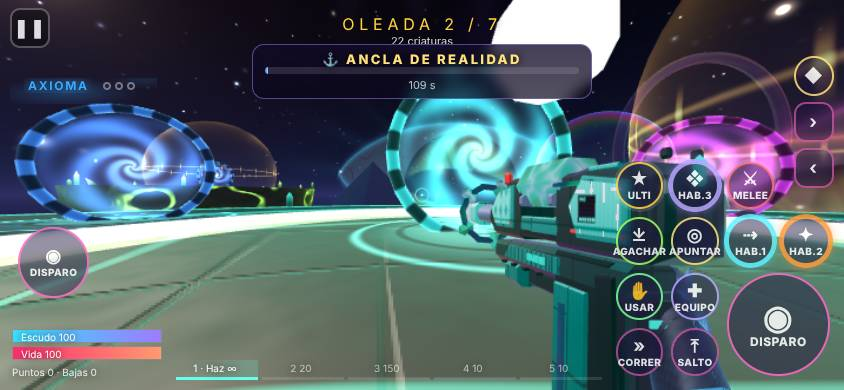
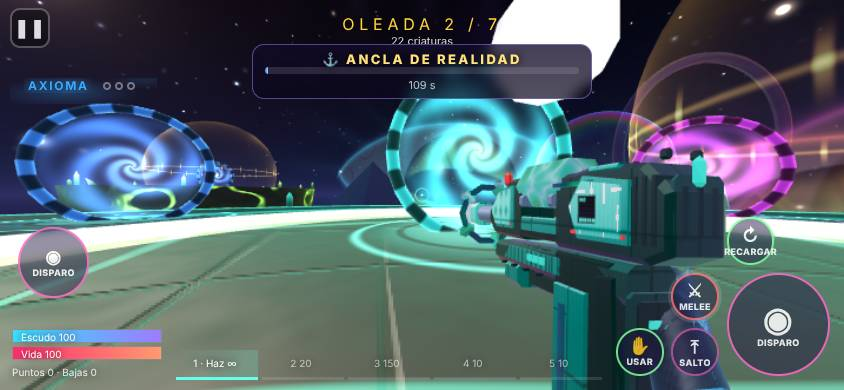
WIP: trabajo en curso de los agentes
Claude-Session: https://claude.ai/code/session_01FQkQoAoCaRgGqcom58Ns3g

diff --git a/src/client/main.js b/src/client/main.js
@@ -6,6 +6,8 @@ import { settings, setSetting, sensFromSlider, sliderFromSens } from './settings
 import { WEAPON_COLORS } from './shotfx.js';
 import { createCombatHud } from './hud-combat.js';
 import { createHuespedHud } from './hud-huesped.js';
+import { createEvoHud, EVO_KEY } from './hud-evolucion.js';
+import * as Perfil from './perfil.js';
 import { createCaida } from './caida.js';
 import { MAPS } from '../sim/maps.js';
 import { blocked } from '../sim/physics.js';
@@ -96,14 +98,14 @@ addEventListener('touchstart', () => { sound.init(); sound.resume(); }, { passiv
 /* ───────── ayuda de puntería (todas las entradas: ratón, táctil y mando) ───────── */
 const AIM_KEY = 'cristal.aim.v1'; let aimLevel = isTouchDevice() ? 2 : 1; try { const v = parseInt(localStorage.getItem(AIM_KEY), 10); if (v >= 0 && v <= 3) aimLevel = v; } catch { /* ok */ }
 const aimSel = $('aimsel'); if (aimSel) { aimSel.value = String(aimLevel); aimSel.addEventListener('change', () => { aimLevel = +aimSel.value; try { localStorage.setItem(AIM_KEY, String(aimLevel)); } catch { /* ok */ } }); }
-let combatHud = null, huespedHud = null, caida = null;
+let combatHud = null, huespedHud = null, caida = null, evoHud = null;
 const motionSel = $('motionsel'); if (motionSel) { try { motionSel.value = localStorage.getItem('cristal.reduceMotion') === '1' ? '1' : '0'; } catch { /* ok */ } motionSel.addEventListener('change', () => { try { localStorage.setItem('cristal.reduceMotion', motionSel.value); } catch { /* ok */ } }); }
 function readInput() {
-  if (session && session.touch) { const ti = touch.read(); if (pickReq >= 0) { ti.pick = pickReq; pickReq = -1; } return ti; } // (las tarjetas de mejora también se eligen tocando)
+  if (session && session.touch) { const ti = touch.read(); ti.evo = !!(evoHud && evoHud.held()); if (pickReq >= 0) { ti.pick = pickReq; pickReq = -1; } return ti; } // (las tarjetas de mejora también se eligen tocando)
   const zm = renderer.zoomKind || 0, adsM = keys.has('KeyX') || mouse.ads ? (zm === 2 ? settings().scopeMul : settings().adsMul) : 1, SENS = mouseSens * adsM;
   const i = {
     mx: (keys.has('KeyD') ? 1 : 0) - (keys.has('KeyA') ? 1 : 0), mz: (keys.has('KeyW') ? 1 : 0) - (keys.has('KeyS') ? 1 : 0),
-    dyaw: mouse.dx * SENS, dpitch: -mouse.dy * SENS, jump: keys.has('Space'), fire: mouse.fire, ability: keys.has('KeyQ'), mov: keys.has('KeyF'), ads: keys.has('KeyX') || mouse.ads, crouch: keys.has('KeyC') || keys.has('ControlLeft'), esp: mouse.esp || keys.has('KeyG'), s3: keys.has('KeyZ'), ult: keys.has('KeyT'), reload: keys.has('KeyR'), melee: keys.has('KeyV'), pick: pickReq, interact: keys.has('KeyE'), ping: keys.has('KeyB') || mouse.ping, dash: keys.has('ShiftLeft') || keys.has('ShiftRight'), weapon: wantWeapon,
+    dyaw: mouse.dx * SENS, dpitch: -mouse.dy * SENS, jump: keys.has('Space'), fire: mouse.fire, ability: keys.has('KeyQ'), mov: keys.has('KeyF'), ads: keys.has('KeyX') || mouse.ads, crouch: keys.has('KeyC') || keys.has('ControlLeft'), esp: mouse.esp || keys.has('KeyG'), s3: keys.has('KeyZ'), ult: keys.has('KeyT'), reload: keys.has('KeyR'), melee: keys.has('KeyV'), evo: keys.has(EVO_KEY.code) || !!(evoHud && evoHud.held()), pick: pickReq, interact: keys.has('KeyE'), ping: keys.has('KeyB') || mouse.ping, dash: keys.has('ShiftLeft') || keys.has('ShiftRight'), weapon: wantWeapon,
   };
   mouse.dx = mouse.dy = 0; wantWeapon = -1; pickReq = -1;
   const g = pad.read(padDt); // mando (DualSense / Xbox)
@@ -148,7 +150,7 @@ function assistAim(inp, state, me, dt, firing = false) {
 function startSolo(mapId, opts = {}) {
   const intro = opts.intro !== false && !params.get('auto') && !params.get('skipintro');
   const game = new Game({ mapId, seed: opts.seed || (Math.random() * 1e9) | 0, difficulty: opts.difficulty || 1, calm: intro ? 6 : 4, magazines: true, practice: !!opts.practice });
-  const p = game.addPlayer(Story.NAME, null, { char: Equipo.char, slots: Equipo.slots });
+  const p = game.addPlayer(Story.NAME, null, { char: Equipo.char, slots: Equipo.slots, ...Perfil.paraPartida(Equipo.char) }); // evolución y arma fusionada del perfil (perfil.js)
   if (opts.wave) { game.wave = opts.wave - 1; game.phaseT = 0.1; }
   if (opts.god) p.godmode = true;
   session = { practice: !!opts.practice, horde: !!opts.horde, mode: 'solo', game, pid: p.id, acc: 0, touch: useTouch() && !opts.bot, bot: opts.bot ? makeBot(game, p.id, { seed: 5, skill: opts.skill || 1.2 }) : null, headless: !!opts.bot, ended: false, map: mapId, campaign: opts.campaign || null, intro: null };
@@ -294,6 +296,7 @@ function frame(now) {
     if (session.sendT > 1 / 30) { net.send({ t: 'in', i: { ...inp, dyaw: session.inAcc.dyaw, dpitch: session.inAcc.dpitch } }); session.inAcc = { dyaw: 0, dpitch: 0 }; session.sendT = 0; }
   }
   const me = state.players.find((p) => p.id === session.pid) || state.players[0];
+  if (me) session.lastMe = me; // para guardar los núcleos al salir (bankProfile)
   if (params.get('look') === 'boss' && me) {
     const b = state.monsters.find((m) => m.k === 'coloso' || m.k === 'madre' || m.k === 'argos');
     if (b) { const up = v3(...me.up), d = norm(v3(b.p[0] - me.pos[0], b.p[1] - me.pos[1], b.p[2] - me.pos[2])), h = norm(project(d, up), v3(...me.h)); session.look = { h: [h.x, h.y, h.z], pitch: Math.asin(Math.max(-1, Math.min(1, d.x * up.x + d.y * up.y + d.z * up.z))) }; }
@@ -361,6 +364,7 @@ function audioAndHud(state, me, dt) {
       case 'purge': sound.gravity(); banner('¡PURGA! La Madre está abierta: ¡disparale!', 2400); flash(); break;
       case 'gestate': banner('La Madre pone huevos: ¡rompelos antes de que eclosionen!', 2400); break;
       case 'hatch': sound.boom(e.p); break;
+      case 'evolve': if (mine && evoHud) { evoHud.celebrate(e.tier); sound.objective(true); flash(); } break; // evolución: destello, onda y texto (hud-evolucion.js)
       case 'down': sound.down(); if (mine) banner('¡ESTÁS CAÍDO! Pedí ayuda con B', 2200); break;
       case 'surge': banner('El Vórtice se enfurece…', 1800); break;
       case 'feed': if (!session.feedT || performance.now() - session.feedT > 160) { session.feedT = performance.now(); sound.pickup(); } break; // mapa 4: un impacto alimentó un capullo (el aro de puntos del capullo muestra cuánto)
@@ -453,6 +457,8 @@ function hudDirector(state, me) {
   }
   if (!huespedHud) { try { huespedHud = createHuespedHud($('hud')); } catch (err) { console.warn('HUD de Huésped no disponible', err.message); huespedHud = { update() {} }; } }
   huespedHud.update(me, !!(session && session.touch), !(session && session.intro));
+  if (!evoHud) { try { evoHud = createEvoHud($('hud')); } catch (err) { console.warn('HUD de evolución no disponible', err.message); evoHud = { update() {}, celebrate() {}, held() { return false; } }; } }
+  evoHud.update(me, !!(session && session.touch), !(session && session.intro));
   if (session && session.touch && me) { // botones contextuales: sólo aparecen cuando sirven
     const near = (p, r) => Math.hypot(p[0] - me.pos[0], p[1] - me.pos[1], p[2] - me.pos[2]) < r;
     const use = !!((state.obj && state.obj.state === 'active') || me.carry || (state.objs || []).some((o) => near(o.p, 7)) || state.players.some((q) => q.id !== me.id && q.dead && near(q.pos, 7)));
@@ -498,7 +504,10 @@ let flashSeq = 0;
 function flash() { const f = $('flash'); f.classList.add('on'); const my = ++flashSeq; later(() => { if (my === flashSeq) f.classList.remove('on'); }, 90); }
 
 /* ───────── final / campaña ───────── */
+/** Suma los núcleos de la partida al banco del perfil y guarda la evolución (una sola vez por partida solitaria). */
+function bankProfile(me) { if (!session || session.mode !== 'solo' || session.banked || !me) return; session.banked = true; try { Perfil.cerrarPartida(Equipo.char, me); } catch (err) { console.warn('Perfil: no se pudo guardar', err.message); } }
 function endGame(state, me) {
+  bankProfile(me);
   session.ended = true; if (document.exitPointerLock) document.exitPointerLock(); touch.show(false);
   const won = state.state === 'won'; window.__ended = state.state;
   const stats = `Oleada ${state.wave}/${state.waveTotal}\nTiempo ${Math.round(state.time)} s\n` + state.players.map((p) => `${p.name} ${p.id}: ${p.kills} bajas · ${p.score} pts`).join('\n');
@@ -538,7 +547,7 @@ $('sens').addEventListener('input', (e) => { mouseSens = 0.00044 * +e.target.val
 $('sens0').addEventListener('input', (e) => { mouseSens = 0.00044 * +e.target.value; });
 $('vol').addEventListener('input', (e) => sound.setVolume(+e.target.value / 10));
 $('subsel').addEventListener('change', (e) => { $('sub').style.display = e.target.value === '1' ? '' : 'none'; });
-$('quit').addEventListener('click', () => location.reload());
+$('quit').addEventListener('click', () => { bankProfile(session && session.lastMe); location.reload(); });
 /* ───── ajustes de controles táctiles y cámara (se guardan por jugador) ───── */
 function bindTouchSettings() {
   const S = settings(), $$ = (id) => $(id), pct = (v) => `${Math.round(v * 100)} %`;

diff --git a/tools/shot-hud.js b/tools/shot-hud.js
@@ -13,7 +13,7 @@ for (const [vn, w, h, touch] of VPS) {
   if (touch) await pg.evaluate(() => { const s = window.__api.session; s.touch = true; window.__api.touch.show(true); });
   await pg.waitForTimeout(800);
   const CHK = () => {
-    const sel = ['.trophy', '#cards', '#downed', '#top', '#bossbar', '#objective', '#bars', '#weapons', '#skills', '#huesped', '#ability', '#coop', '#practice', '#banner', '.tc-fire', '.tc-fireL', '.tc-ads', '.tc-crouch', '.tc-jump', '.tc-dash', '.tc-mov', '.tc-esp', '.tc-s3', '.tc-ult', '.tc-melee', '.tc-ability', '.tc-use', '.tc-ping', '.tc-prev', '.tc-next', '.tc-pause', '.tc-edit'];
+    const sel = ['.trophy', '#cards', '#downed', '#top', '#bossbar', '#objective', '#bars', '#weapons', '#skills', '#huesped', '#ability', '#coop', '#practice', '#banner', '.tc-fire', '.tc-fireL', '.tc-ads', '.tc-crouch', '.tc-jump', '.tc-mov', '.tc-esp', '.tc-s3', '.tc-ult', '.tc-melee', '.tc-reload', '.tc-evo', '.hq-ammo', '.tc-ability', '.tc-use', '.tc-ping', '.tc-pause', '.tc-edit'];
     const items = []; for (const s of sel) for (const el of document.querySelectorAll(s)) { const cs = getComputedStyle(el); if (cs.display === 'none' || cs.visibility === 'hidden' || el.offsetParent === null && cs.position !== 'fixed') continue; const r = el.getBoundingClientRect(); if (r.width < 2 || r.height < 2) continue; items.push({ s, x: r.x, y: r.y, w: r.width, h: r.height, touchBtn: s.startsWith('.tc-') }); }
     const out = []; const W = innerWidth, H = innerHeight;
     for (let i = 0; i < items.length; i++) {
@@ -24,14 +24,25 @@ for (const [vn, w, h, touch] of VPS) {
   };
   const res = await pg.evaluate(CHK);
   console.log(vn, `${w}x${h}`, res.n, 'elementos', res.out.length ? '\n  ' + res.out.join('\n  ') : 'sin solapes'); overlaps += res.out.length;
+  if (touch) await pg.evaluate(() => { window.__api.touch.ctxForce = true; window.__api.touch.applyLayout(); }); // enseña también los contextuales (ULTI, USAR, EVOLUC.)
   if (touch) { // los 3 preajustes de dedos (2/3/4) y el editor de botones: sin solapes ni salidas de pantalla; los 3 botones nuevos presentes
     for (const n of [2, 3, 4]) {
       await pg.evaluate((n) => window.__api.touch.setFingers(n), n); await pg.waitForTimeout(150);
-      const r = await pg.evaluate(CHK); const need = await pg.evaluate(() => ['melee', 's3', 'ult', 'mov', 'esp'].filter((k) => { const e = document.querySelector('.tc-' + k); return !e || e.offsetParent === null; }));
+      const r = await pg.evaluate(CHK); const need = await pg.evaluate(() => ['fire', 'reload', 'melee', 'jump', 'ult', 'use', 'evo'].filter((k) => { const e = document.querySelector('.tc-' + k); return !e || e.offsetParent === null; }));
       console.log(vn, `  ${n} dedos`, r.btn, 'botones', need.length ? 'FALTAN ' + need.join(',') : '', r.out.length ? '\n    ' + r.out.join('\n    ') : 'sin solapes'); overlaps += r.out.length + need.length;
       if (n === 3) await pg.screenshot({ path: `${OUT}/${vn}-3dedos.jpg`, type: 'jpeg', quality: 70 });
     }
     await pg.evaluate(() => window.__api.touch.setFingers(2));
+    // modo avanzado: HAB.1/2/3, APUNTAR, AGACHAR, EQUIPO, SEÑALAR además de los básicos; sin solapes; y en básico NO se ven
+    { const basicHidden = await pg.evaluate(() => ['mov', 'esp', 's3', 'ads', 'crouch', 'ability', 'ping'].filter((k) => { const e = document.querySelector('.tc-' + k); return e && e.offsetParent !== null; }));
+      console.log(vn, '  modo básico oculta lo avanzado:', basicHidden.length ? 'FALLA ven ' + basicHidden.join(',') : 'ok'); overlaps += basicHidden.length;
+      await pg.evaluate(() => { window.__api.touch.ctxForce = false; window.__api.touch.applyLayout(); }); await pg.waitForTimeout(100);
+      await pg.screenshot({ path: `${OUT}/${vn}-basico.jpg`, type: 'jpeg', quality: 70 });
+      await pg.evaluate(() => { window.__api.touch.ctxForce = true; document.querySelector('#tadv').value = '1'; document.querySelector('#tadv').dispatchEvent(new Event('input')); }); await pg.waitForTimeout(150);
+      const r2 = await pg.evaluate(CHK); const need2 = await pg.evaluate(() => ['mov', 'esp', 's3', 'ads', 'crouch'].filter((k) => { const e = document.querySelector('.tc-' + k); return !e || e.offsetParent === null; }));
+      console.log(vn, '  modo avanzado', r2.btn, 'botones', need2.length ? 'FALTAN ' + need2.join(',') : '', r2.out.length ? '\n    ' + r2.out.join('\n    ') : 'sin solapes'); overlaps += r2.out.length + need2.length;
+      await pg.screenshot({ path: `${OUT}/${vn}-avanzado.jpg`, type: 'jpeg', quality: 70 });
+      await pg.evaluate(() => { document.querySelector('#tadv').value = '0'; document.querySelector('#tadv').dispatchEvent(new Event('input')); }); await pg.waitForTimeout(100); }
     // editor: arrastrar el botón de melee cambia su posición guardada, y el editor no tapa botones
     await pg.evaluate(() => { window.__api.session.paused = true; window.__api.touch.edit(true); }); await pg.waitForTimeout(200);
     const r = await pg.evaluate(CHK); console.log(vn, '  editor', r.out.length ? '\n    ' + r.out.join('\n    ') : 'sin solapes'); overlaps += r.out.length;

diff --git a/src/client/hud-evolucion.js b/src/client/hud-evolucion.js
@@ -1,5 +1,5 @@
 // HUD de la evolución en partida (docs/HUESPEDES.md → «Evolución»): contador de núcleos de la partida (co), nivel actual (evo), barra hacia el
-// siguiente nivel (evn) y, cuando co ≥ evn, el aviso «¡Podés evolucionar!» con la tecla B y un botón táctil/clic que envía input.evo.
+// siguiente nivel (evn) y, cuando co ≥ evn, el aviso «¡Podés evolucionar!» con la tecla N (B ya es «marcar» y T la definitiva) y un botón táctil/clic que envía input.evo.
 // Al llegar el evento {t:'evolve', pid, tier} de la simulación: destello, onda y texto «EVOLUCIÓN: <nombre del nivel>».
 //   const evoHud = createEvoHud($('hud'));
 //   evoHud.update(me, touch, hudVisible);          // una vez por cuadro (me = jugador propio del snapshot)
@@ -7,6 +7,8 @@
 //   evoHud.held()                                  // true mientras se aprieta el botón (main.js lo suma a input.evo)
 import { EVO_TIERS, CHARACTERS } from '../sim/data.js';
 
+/** Tecla de evolucionar en PC (B quedó para marcar, T para la definitiva, R recargar). */
+export const EVO_KEY = { code: 'KeyN', label: 'N' };
 const STYLE_ID = 'evohud-style';
 const CSS = `
 #evohud{position:absolute;left:calc(14px + env(safe-area-inset-left,0px));top:calc(14px + env(safe-area-inset-top,0px));display:flex;flex-direction:column;gap:5px;align-items:flex-start;pointer-events:none;font-size:12px;max-width:min(46vw,260px);z-index:6}
@@ -40,7 +42,7 @@ export function createEvoHud(rootEl) {
   const doc = rootEl.ownerDocument || document;
   if (!doc.getElementById(STYLE_ID)) { const s = doc.createElement('style'); s.id = STYLE_ID; s.textContent = CSS; doc.head.appendChild(s); }
   const el = doc.createElement('div'); el.id = 'evohud'; el.setAttribute('aria-live', 'polite');
-  el.innerHTML = '<div class="eh-row"><i aria-hidden="true">◆</i><b class="eh-n">0</b><span class="eh-lv"></span><span class="eh-bar"><u></u></span></div><button type="button" class="eh-go" aria-label="Evolucionar"><span>¡Podés evolucionar!</span><kbd>B</kbd></button>';
+  el.innerHTML = '<div class="eh-row"><i aria-hidden="true">◆</i><b class="eh-n">0</b><span class="eh-lv"></span><span class="eh-bar"><u></u></span></div><button type="button" class="eh-go" aria-label="Evolucionar"><span>¡Podés evolucionar!</span><kbd>' + EVO_KEY.label + '</kbd></button>';
   rootEl.appendChild(el);
   const fx = doc.createElement('div'); fx.id = 'evofx'; fx.setAttribute('aria-hidden', 'true'); rootEl.appendChild(fx);
   const n = el.querySelector('.eh-n'), lv = el.querySelector('.eh-lv'), bar = el.querySelector('.eh-bar u'), go = el.querySelector('.eh-go');

diff --git a/tests/controles.test.js b/tests/controles.test.js
@@ -20,7 +20,7 @@ test('controles táctiles: giro exacto, 180°, microajuste, multitoque, zonas, A
   const pg = await ctx.newPage(); const errs = []; pg.on('pageerror', (e) => errs.push(e.message)); pg.on('console', (m) => { if (m.type() === 'error') errs.push(m.text()); });
   try {
     await pg.goto(`http://localhost:${srv.port}/?auto=m1&skipintro=1&god=1&seed=3&autoq=0`); await pg.waitForFunction(() => window.__api && window.__api.session && window.__api.session.game);
-    await pg.evaluate(() => { localStorage.removeItem('cristal.ajustes.v2'); window.__api.session.touch = true; window.__api.touch.show(true); });
+    await pg.evaluate(() => { localStorage.removeItem('cristal.ajustes.v2'); window.__api.session.touch = true; window.__api.touch.show(true); document.querySelector('#tadv').value = '1'; document.querySelector('#tadv').dispatchEvent(new Event('input')); }); // modo avanzado: esta prueba usa APUNTAR
     await simWait(pg, 0.3);
     const cdp = await ctx.newCDPSession(pg); const T = (t, p) => cdp.send('Input.dispatchTouchEvent', { type: t, touchPoints: p });
     const me = () => pg.evaluate(() => { const g = window.__api.session.game, p = g.players[0]; return { x: p.pos.x, z: p.pos.z, pitch: p.pitch, h: { ...p.heading }, up: { ...p.up }, w: p.weapon, a: [...p.ammo].map((v) => (v === Infinity ? -1 : v)), ads: p.input && p.input.ads, cr: p.input && p.input.crouch }; });
@@ -68,7 +68,7 @@ test('controles táctiles: giro exacto, 180°, microajuste, multitoque, zonas, A
     await simWait(pg, 0.2); assert.ok(!(await me()).ads, 'al soltar ADS se desactiva');
     // 10) persistencia de preferencias y de la disposición
     await pg.evaluate(() => { const m = window.__api; m.touch && 0; });
-    const stored = await pg.evaluate(() => { localStorage.setItem('cristal.ajustes.v2', JSON.stringify({ ver: 3, sensX: 0.01, fingers: 3, layout: { fire: { dx: -20, dy: 0, s: 1.2 } } })); return true; });
+    const stored = await pg.evaluate(() => { localStorage.setItem('cristal.ajustes.v2', JSON.stringify({ ver: 3, sensX: 0.01, fingers: 3, advanced: true, layout: { fire: { dx: -20, dy: 0, s: 1.2 } } })); return true; });
     await pg.reload(); await pg.waitForFunction(() => window.__api && window.__api.session && window.__api.session.game);
     await pg.evaluate(() => { window.__api.session.touch = true; window.__api.touch.show(true); }); await simWait(pg, 0.3);
     a = await me(); await swipe(17, 560, 200, 100, 0); await simWait(pg, 0.4); c = await me();

diff --git a/tests/e2e.test.js b/tests/e2e.test.js
@@ -71,8 +71,10 @@ test('e2e iPhone (emulado): calidad Baja automática, palanca, mirar, disparar, 
     const b1 = await me(); assert.ok(Math.hypot(b1.x - a.x, b1.z - a.z) > 3, 'la palanca mueve al jugador');
     await T('touchStart', [{ x: 650, y: 150, id: 2 }]); for (let i = 1; i <= 8; i++) { await T('touchMove', [{ x: 650 + i * 12, y: 150, id: 2 }]); await pg.waitForTimeout(30); } await T('touchEnd', []); await simWait(pg, 0.3);
     const c = await me(); assert.ok(Math.hypot(c.h.x - b1.h.x, c.h.z - b1.h.z) > 0.2, 'arrastrar a la derecha gira la vista');
-    const box = await pg.locator('.tc-next').boundingBox(); await pg.touchscreen.tap(box.x + 10, box.y + 10); await simWait(pg, 0.4);
-    assert.equal((await me()).w, 1, 'el botón › pasa al arma 2');
+    const box = await pg.locator('#weapons div[data-i="1"]').boundingBox(); await pg.touchscreen.tap(box.x + box.width / 2, box.y + box.height / 2); await simWait(pg, 0.4);
+    assert.equal((await me()).w, 1, 'tocar la barra de armas pasa al arma 2');
+    for (const k of ['fire', 'reload', 'melee', 'jump']) assert.ok(await pg.locator('.tc-' + k).isVisible(), 'botón básico visible: ' + k);
+    for (const k of ['mov', 'esp', 's3', 'ads', 'crouch']) assert.ok(!(await pg.locator('.tc-' + k).isVisible()), 'el modo básico esconde ' + k);
     await pg.evaluate(() => { window.__api.session.game.players[0].ammo[1] = 20; });
     const f = await pg.locator('.tc-fire').boundingBox(); await T('touchStart', [{ x: f.x + 40, y: f.y + 40, id: 3 }]); await simWait(pg, 1.5); await T('touchEnd', []);
     assert.ok((await me()).a[1] < 20, 'el botón DISPARO dispara');

diff --git a/tests/hud.test.js b/tests/hud.test.js
@@ -13,6 +13,8 @@ test('HUD móvil y de PC: sin solapes entre botones ni elementos fuera de pantal
   // los botones nuevos (MELEE, HAB.3, ULTI) existen en los 3 preajustes de dedos y el editor puede moverlos
   for (const vn of ['iphoneSE', 'iphone13', 'iphone15pm']) {
     for (const n of [2, 3, 4]) assert.match(out, new RegExp(`${vn}\\s+${n} dedos \\d+ botones\\s*sin solapes`), `${vn}: ${n} dedos sin solapes`);
+    assert.match(out, new RegExp(`${vn}\\s+modo básico oculta lo avanzado: ok`), `${vn}: el modo básico sólo muestra lo básico`);
+    assert.match(out, new RegExp(`${vn}\\s+modo avanzado \\d+ botones\\s*sin solapes`), `${vn}: modo avanzado sin solapes`);
     assert.match(out, new RegExp(`${vn}\\s+editor mueve MELEE: -30px 20px ok`), `${vn}: el editor mueve MELEE`);
   }
 });
